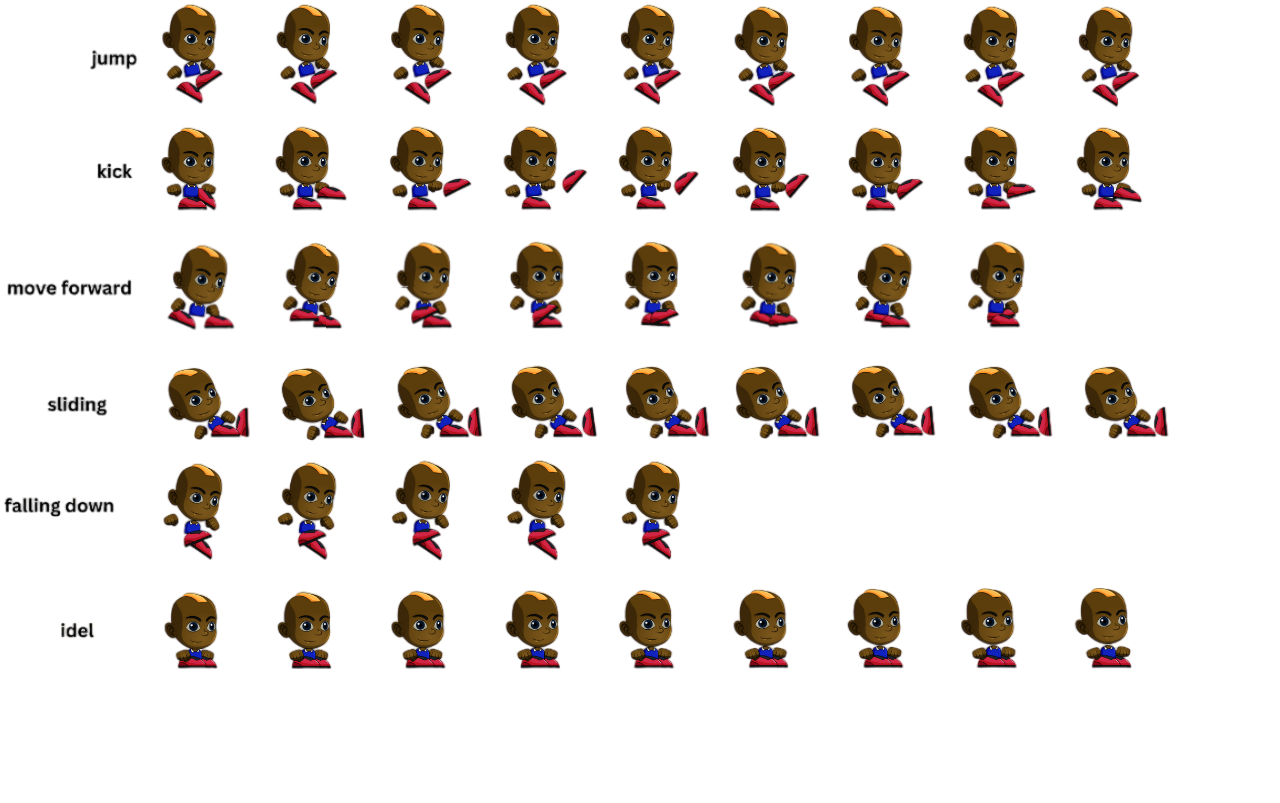
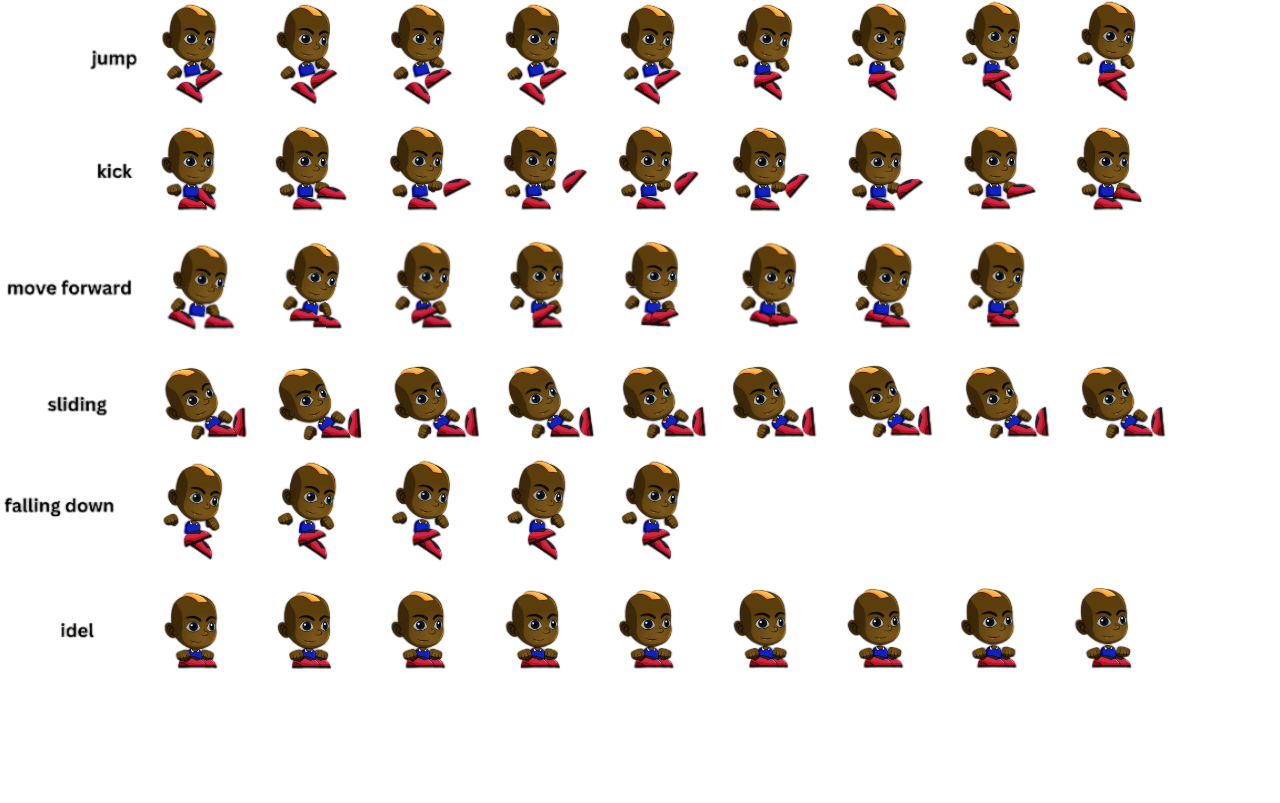
need to fix the slide of player

diff --git a/src/gameObject/Player.cpp b/src/gameObject/Player.cpp
@@ -5,15 +5,10 @@
 #include "Resources.h"
 
 Player::Player(bool right, Keyboard keys) :m_numOfJump(0), m_posX(0), m_posY(0), m_move(-2), m_gravity(0),
-m_moveDown(false), m_movePlayer(false), m_keys(keys), m_playerSide(right)
+										 m_keys(keys), m_playerSide(right)
 {
 	m_sprite.setTexture(Resources::getInstance().getCharactersTexture()[0]);
-
-	// Define the rectangle to select the character from the sprite sheet
-	sf::IntRect characterRect(160, 125, 80, 90); // Assuming each character is 32x32 pixels
-
-	// Set the texture rectangle to the character's position and size on the sprite sheet
-	m_sprite.setTextureRect(characterRect);
+	resetToPosition();
 	
 	if (m_playerSide)
 	{
@@ -25,18 +20,10 @@ m_moveDown(false), m_movePlayer(false), m_keys(keys), m_playerSide(right)
 		m_sprite.setPosition(272, 750);
 	}
 	
-
 	m_startSprite.push_back(sf::Vector2f(160, 126));
 	m_startSprite.push_back(sf::Vector2f(160, 244));
-	m_startSprite.push_back(sf::Vector2f(160, 5));
-	m_startSprite.push_back(sf::Vector2f(160, 463));
+	m_startSprite.push_back(sf::Vector2f(160, 8));
 	m_startSprite.push_back(sf::Vector2f(160, 365));
-}
-
-//get keys
-Keyboard Player::getKey() const 
-{
-	return m_keys;
 }
 
 
@@ -47,32 +34,18 @@ void Player::draw(sf::RenderWindow& window) {
 	window.draw(m_sprite);
 }
 
-
-
 //function that find where to move and  call to another function 
 void Player::move(int keyPressed) {
 
-	//if user preesed keyboard keep it in member
-	if (keyPressedValid(keyPressed))
-	{
-		m_move = keyPressed;
-		m_moveClock.restart();
-	}
-
 	if (sf::Keyboard::isKeyPressed(m_keys.JUMP) || m_sprite.getPosition().y < 750) {//jump
-		
 		if (m_posY > -200)
-		{
 			m_posY -= 15;
-		}
 		
 		movePlayer(m_startSprite[2], 7, 50);
 	}
-	else {//return to regular position 
-			sf::IntRect characterRect(160, 590, 80, 90); // Assuming each character is 32x32 pixels
-			// Set the texture rectangle to the character's position and size on the sprite sheet
-			m_sprite.setTextureRect(characterRect);
-			m_sprite.setPosition(float(272 + m_posX), float(750));
+	else {
+		// Reset to default position if not jumping
+		resetToPosition();
 	}
 
 	if (sf::Keyboard::isKeyPressed(m_keys.SPACE))//kick
@@ -86,41 +59,17 @@ void Player::move(int keyPressed) {
 		movePlayer(m_startSprite[1], 6, 10);
 	}
 	else if (sf::Keyboard::isKeyPressed(m_keys.SLIDE)) {//slide
-		if (m_playerSide)
-			m_posX -= 5;
-		else m_posX += 5;
-
-		movePlayer(m_startSprite[4], 7, 1);
-	}
-	else if (m_moveDown) {//down
-		m_posY += 20;
-		movePlayer(m_startSprite[3], 3, 10);
-		if (m_posY >= 0)
-		{
-			m_moveDown = false;
-		}
-	}
-	
-
-
-
-	if (m_sprite.getPosition().y < 750)
-	{
-		m_sprite.setPosition(float(272 + m_posX), float(750 + m_posY+m_gravity));
-		m_gravity += 7;
-	}
-	else
-	{
-		m_gravity = 0;
-		m_posY = 0;
+	    (m_playerSide) ? m_posX -= 5 : m_posX += 5;
+		movePlayer(m_startSprite[3], 6, 1);
 	}
 
+	// Handle gravity and ground collision
+	updateGravityAndCollision();
 }
 
 //function that move the player
 void Player::movePlayer(sf::Vector2f startPos, int maxSprite, float maxTime) {
 
-	/*float maxTime = 40;*/
 	float sec = float(m_moveClock.getElapsedTime().asMilliseconds());
 	if (maxTime < sec)
 	{
@@ -128,54 +77,55 @@ void Player::movePlayer(sf::Vector2f startPos, int maxSprite, float maxTime) {
 		{
 			m_numOfJump = 0;
 			m_move = -2;
-			m_movePlayer = false;
+			
 			return;
 		}
 		else
 		{
 			m_moveClock.restart();
 			m_numOfJump += 115;
-			sf::IntRect characterRect(int(startPos.x + m_numOfJump), int(startPos.y), 80, 90);
-			m_sprite.setTextureRect(characterRect);
-			m_sprite.setPosition(float(272 + m_posX), float(750 + m_posY));
+			resetToPosition(startPos, m_numOfJump, m_posX, m_posY);
 		}
-		m_movePlayer = true;
+		
+	}
+}
+
+
+// Reset to default position if not jumping
+void Player::resetToPosition(sf::Vector2f startPos,int numOfJump ,int posX, int posY) {
+
+	sf::IntRect characterRect(startPos.x+ numOfJump, startPos.y, 80, 90); // Assuming each character is 32x32 pixels
+	// Set the texture rectangle to the character's position and size on the sprite sheet
+	m_sprite.setTextureRect(characterRect);
+	m_sprite.setPosition(float(272 + m_posX), float(750+ posY));
+}
+
+// Handle gravity and ground collision
+void Player::updateGravityAndCollision() {
+	if (m_sprite.getPosition().y < 750)
+	{
+		m_sprite.setPosition(float(272 + m_posX), float(750 + m_posY + m_gravity));
+		m_gravity += 5;
 	}
 	else
 	{
-		/*m_sprite.move(float(272 + m_posX), float(750 + m_posY));*/
-		
-	}		
-
+		m_gravity = 0;
+		m_posY = 0;
+	}
 }
 
-//function that check if user pressed on valid key
-bool Player::keyPressedValid(int keyPressed) {
-
-
-	if (m_keys.SPACE == keyPressed)//kick
-		return true;
-	else if (m_keys.LEFT == keyPressed)//move left
-		return true;
-	else if (m_keys.RIGHT == keyPressed)//move right
-		return true;
-	else if (m_keys.JUMP == keyPressed)//jump
-		return true;
-	else if (m_keys.SLIDE == keyPressed)//slide
-		return true;
-
-	return false;
-}
 
 sf::Sprite& Player::getSprite() {
 	return m_sprite;
 }
 
-int Player::getKeypressed() {
-	return m_move;
-}
-
 sf::Vector2f Player::getPosition() const {
 
 	return m_sprite.getPosition();
+}
+
+//get keys
+Keyboard Player::getKey() const 
+{
+	return m_keys;
 }

diff --git a/include/gameObject/Player.h b/include/gameObject/Player.h
@@ -13,12 +13,8 @@ public:
 
 	virtual void draw(sf::RenderWindow& window) override;
 	virtual void move(int keyPressed) override;
-
 	virtual  sf::Vector2f getPosition() const override;
-
 	virtual sf::Sprite& getSprite() override;
-
-	virtual int getKeypressed() override;
 
 	Keyboard getKey() const;
 
@@ -30,19 +26,16 @@ private:
 	int m_posY;
 	int m_move;
 	int m_gravity;
-
-	bool m_movePlayer;
 	bool m_playerSide;
-	bool m_moveDown;
 
 	sf::Sprite m_sprite;
 	sf::Clock m_moveClock;
 
 	std::vector<sf::Vector2f> m_startSprite;
 
-
 	Keyboard m_keys;
 
 	void movePlayer(sf::Vector2f startPos, int maxSprite, float maxTime);
-	bool keyPressedValid(int keyPressed);
+	void resetToPosition(sf::Vector2f startPos = sf::Vector2f(160, 590), int numOfJump = 0, int posX = 0, int posY = 0);
+	void updateGravityAndCollision();
 };

diff --git a/include/gameObject/Ball.h b/include/gameObject/Ball.h
@@ -15,7 +15,6 @@ public:
 	virtual sf::Vector2f getPosition() const override;
 	virtual sf::Sprite& getSprite() override;
 	sf::Vector2f getVelocity() const;
-	virtual int getKeypressed() override;
 	void setPosition(sf::Vector2f position);
 	void setBallVelocity(sf::Vector2f velocity);
 
@@ -30,5 +29,6 @@ private:
 	sf::Vector2f m_ballVelocity;
 
 	sf::Clock m_clock;
+	GameObject* is();
 };
 

diff --git a/src/gameObject/Ball.cpp b/src/gameObject/Ball.cpp
@@ -15,7 +15,6 @@ Ball::Ball():m_ballVelocity(5.0f, -10.0f), m_ball(25.0f), m_keyPressed(-2)
     m_ball.setPosition(900.0f, 988.0f); 
 }
 
-
 void Ball::setPosition(sf::Vector2f position)
 {
     m_ball.setPosition(position);
@@ -103,7 +102,3 @@ void  Ball::move(int keyPressed)
     }
 
 };
-
-int Ball::getKeypressed() {
-    return m_keyPressed;
-}

diff --git a/src/Client.cpp b/src/Client.cpp
@@ -27,7 +27,7 @@ void Client::receiveData(MovingObject& otherPlayer) {
 
 void Client::sendData(MovingObject& player) {
     sf::Packet packet;
-    float key = player.getKeypressed();
+    float key = 0;
     sf::Vector2f position = player.getSprite().getPosition();
     packet << key;
     if (m_socket.send(packet) != sf::Socket::Done) {

diff --git a/include/gameObject/MovingObject.h b/include/gameObject/MovingObject.h
@@ -12,9 +12,6 @@ public:
 	virtual void draw(sf::RenderWindow& window) = 0;
 	virtual sf::Vector2f getPosition() const = 0;
 
-	//virtual void update(sf::Sprite & ball, sf::Vector2f& velocity, float deltaTime) = 0;
-	virtual int getKeypressed() = 0;
-
 	~MovingObject() = default;
 
 private:
